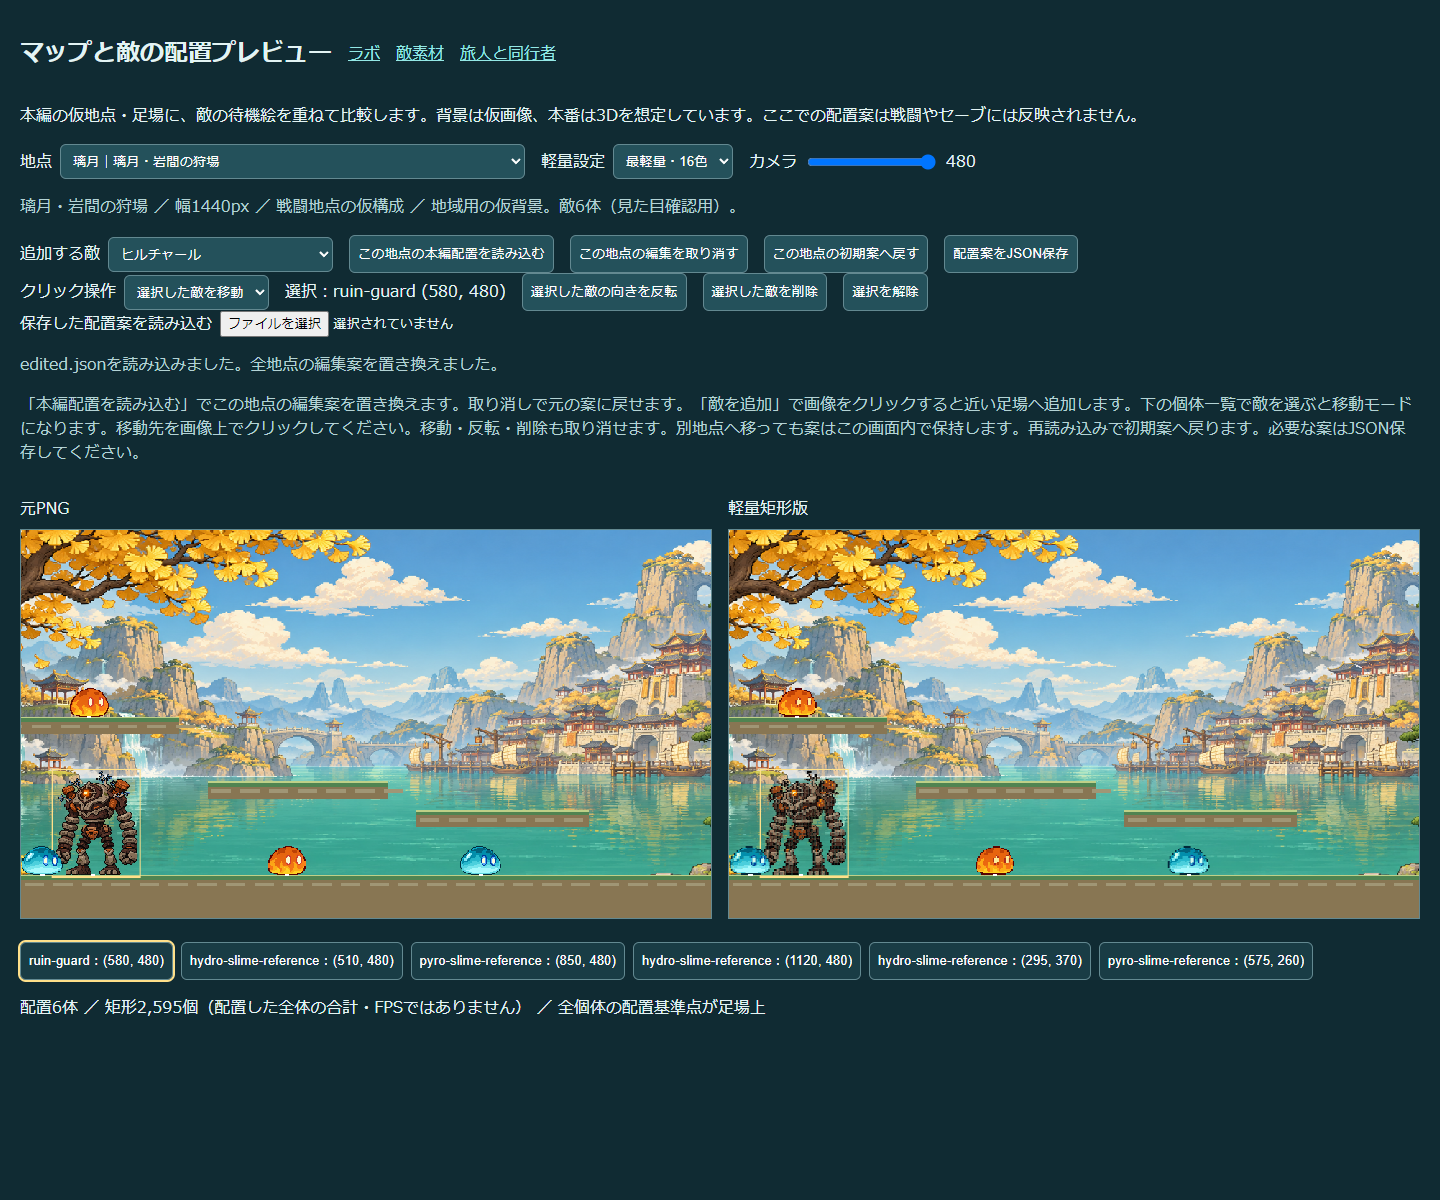
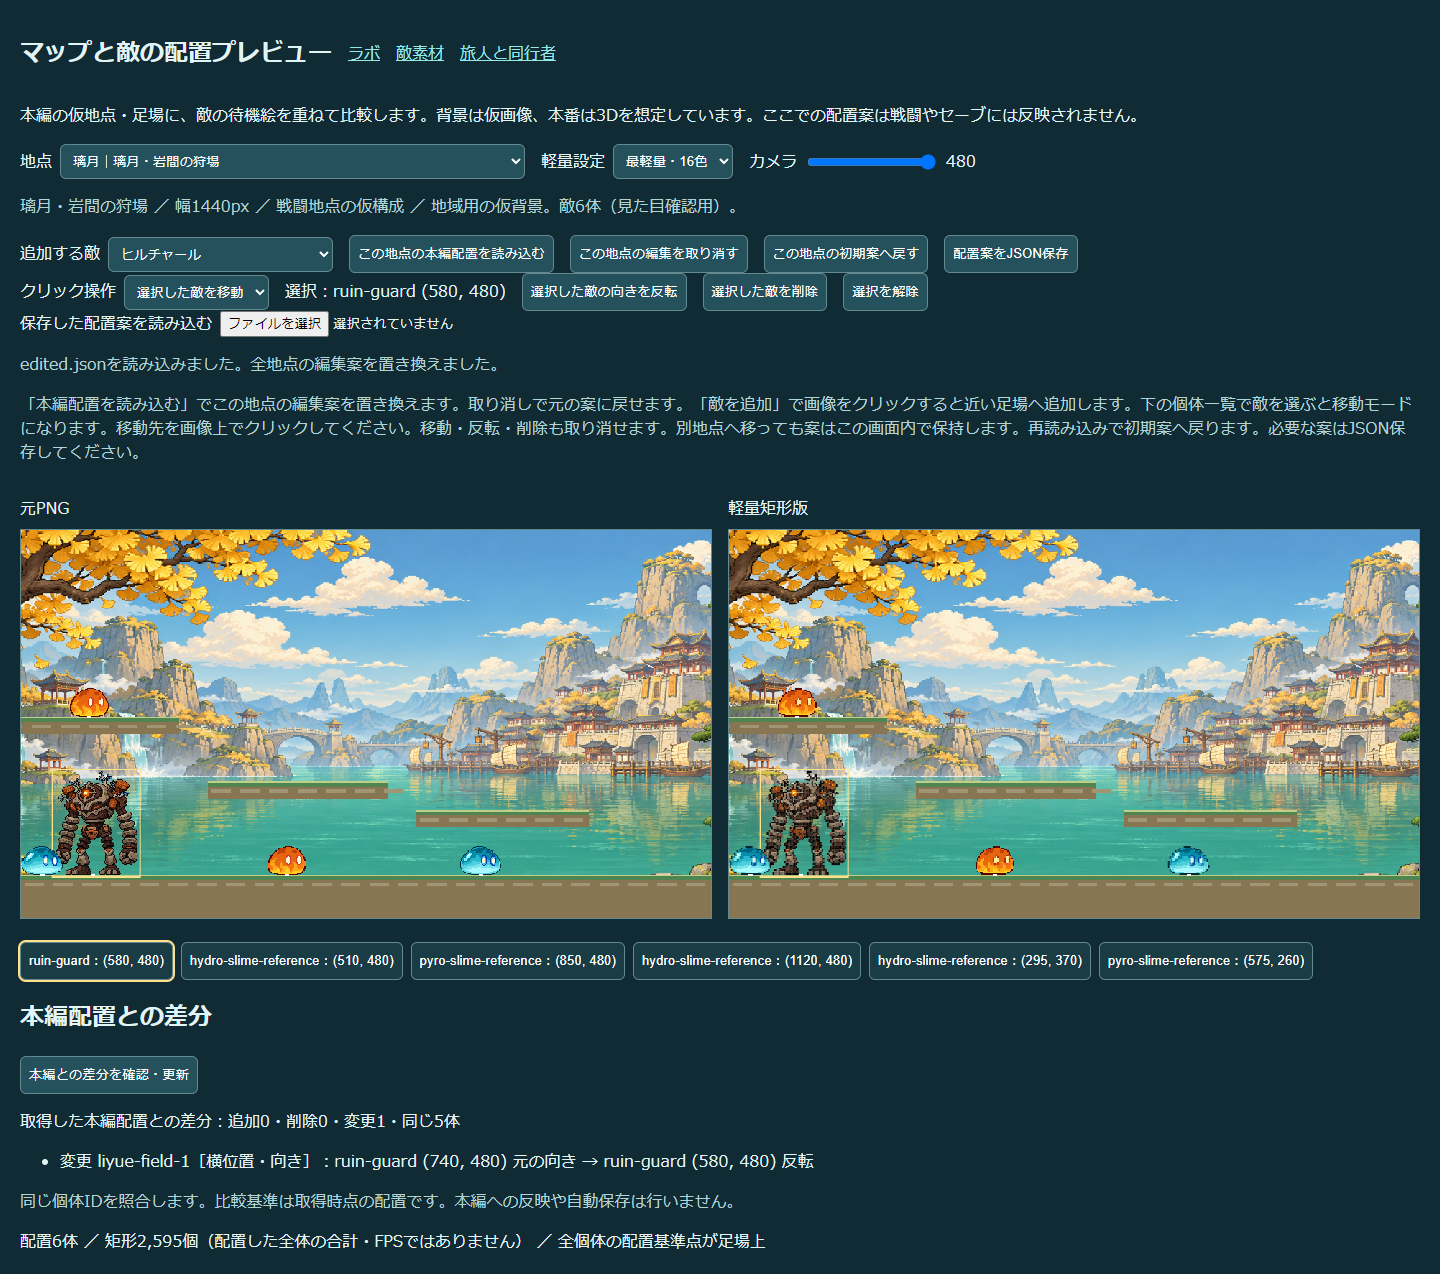
Show draft placement changes against live spawn baseline

diff --git a/map-art.js b/map-art.js
@@ -1,6 +1,6 @@
 import {scenery,sceneryKey,sceneryDefinitions,sceneryStatus,backgroundReady} from './scenery.js';
-import {liveNodeDraft,validatePlacementDraft,MAX_DRAFT_BYTES,MAX_NODE_PLACEMENTS,MAX_TOTAL_PLACEMENTS} from './placement-drafts.js';
-const $=id=>document.getElementById(id),assets={},histories={};
+import {comparePlacements,liveNodeDraft,validatePlacementDraft,MAX_DRAFT_BYTES,MAX_NODE_PLACEMENTS,MAX_TOTAL_PLACEMENTS} from './placement-drafts.js';
+const $=id=>document.getElementById(id),assets={},histories={},baselines={};
 async function json(path){const r=await fetch(path);if(!r.ok)throw Error(path);return r.json()}
 try{
  const [graph,initial,variants]=await Promise.all([json('content/story-graph.json'),json('content/enemy-placement-drafts.json'),json('assets/variants.json'),backgroundReady]);
@@ -35,7 +35,13 @@ try{
   $('placements').replaceChildren();for(const e of items){const label=document.createElement('button');label.type='button';label.dataset.id=e.id;label.setAttribute('aria-pressed',String(e.id===selected));label.onclick=()=>{selected=e.id;$('editMode').value='move';render()};label.textContent=`${e.species}：(${e.x}, ${e.y})${assets[e.species].hover?` ／ 浮き ${assets[e.species].hover}px`:``}`;$('placements').append(label)}
   const chosen=items.find(e=>e.id===selected);$('selectionStatus').textContent=chosen?`選択：${chosen.species} (${chosen.x}, ${chosen.y})`:'選択なし';for(const id of ['flipSelected','deleteSelected','clearSelection'])$(id).disabled=!chosen;
   const runs=items.reduce((sum,e)=>sum+assets[e.species].profiles[profile].runs.length,0);$('status').textContent=`配置${items.length}体 ／ 矩形${runs.toLocaleString()}個（配置した全体の合計・FPSではありません） ／ ${valid?'全個体の配置基準点が足場上':'足場外の配置あり'}`;$('undo').disabled=!(histories[n.id]?.length);
-  window.mapArt={ready:true,node:n.id,nodeCount:nodes.size,camera,profile,count:items.length,selected,editMode:$('editMode').value,placements:structuredClone(items),visuals:items.map(e=>({id:e.id,y:e.y-assets[e.species].hover,hover:assets[e.species].hover,height:assets[e.species].h})),grounded:valid,background:sceneryKey(frame),backgroundFallback:!mapped,backgroundState:background.state,backgroundFile:background.file};
+  const diff=baselines[n.id]?comparePlacements(baselines[n.id],items):null;
+  $('diffSummary').textContent=diff?`取得した本編配置との差分：追加${diff.added.length}・削除${diff.removed.length}・変更${diff.changed.length}・同じ${diff.unchanged}体`:'この地点の本編配置は未取得です。比較しても編集案は変わりません。';
+  $('diffDetails').replaceChildren();
+  const describe=e=>`${e.species} (${e.x}, ${e.y}) ${e.flip?'反転':'元の向き'}`;
+  const line=text=>{const li=document.createElement('li');li.textContent=text;$('diffDetails').append(li)};
+  if(diff){for(const e of diff.added)line(`追加 ${e.id}：${describe(e)}`);for(const e of diff.removed)line(`削除 ${e.id}：${describe(e)}`);for(const e of diff.changed){const names={species:'敵種',x:'横位置',y:'足場の高さ',flip:'向き'};line(`変更 ${e.id}［${e.fields.map(k=>names[k]).join('・')}］：${describe(e.before)} → ${describe(e.after)}`)}}
+  window.mapArt={diff,ready:true,node:n.id,nodeCount:nodes.size,camera,profile,count:items.length,selected,editMode:$('editMode').value,placements:structuredClone(items),visuals:items.map(e=>({id:e.id,y:e.y-assets[e.species].hover,hover:assets[e.species].hover,height:assets[e.species].h})),grounded:valid,background:sceneryKey(frame),backgroundFallback:!mapped,backgroundState:background.state,backgroundFile:background.file};
  }
  function remember(id){const history=histories[id]??=[];history.push(structuredClone(drafts.nodes[id]??[]));if(history.length>100)history.shift()}
  function select(){selected=null;const n=node();$('camera').max=Math.max(0,n.width-960);$('camera').value=0;render()}
@@ -50,7 +56,8 @@ for(const id of ['camera','profile'])$(id).oninput=render;
   let id;do{id=`added-${++serial}`}while(placements().some(e=>e.id===id));const item={id,species:$('species').value,x,y:supports[0].y,flip:false};remember(n.id);placements().push(item);render()};
  $('undo').onclick=()=>{const previous=histories[node().id]?.pop();if(previous)drafts.nodes[node().id]=previous;render()};
  $('reset').onclick=()=>{remember(node().id);drafts.nodes[node().id]=structuredClone(initial.nodes[node().id]||[]);render()};
- $('loadLive').onclick=async()=>{const id=node().id;$('loadLive').disabled=true;try{const source=await json('content/enemy-spawns.json');if(node().id!==id)throw Error('地点が切り替わったため読み込みを中止しました。');const items=liveNodeDraft(source,graph,id,Object.keys(assets));if(Object.entries(drafts.nodes).reduce((sum,[key,list])=>sum+(key===id?0:list.length),items.length)>MAX_TOTAL_PLACEMENTS)throw Error('全地点の配置数の上限を超えます。');remember(id);drafts.nodes[id]=items;render();$('fileStatus').textContent='この地点の本編配置を編集案にコピーしました。取り消すと直前の案に戻ります。';}catch(e){$('fileStatus').textContent='読み込み中止：'+e.message+' 編集中の案は保持しています。';}finally{$('loadLive').disabled=false}};
+ $('loadLive').onclick=async()=>{const id=node().id;$('loadLive').disabled=true;try{const source=await json('content/enemy-spawns.json');if(node().id!==id)throw Error('地点が切り替わったため読み込みを中止しました。');const items=liveNodeDraft(source,graph,id,Object.keys(assets));if(Object.entries(drafts.nodes).reduce((sum,[key,list])=>sum+(key===id?0:list.length),items.length)>MAX_TOTAL_PLACEMENTS)throw Error('全地点の配置数の上限を超えます。');baselines[id]=structuredClone(items);remember(id);drafts.nodes[id]=items;render();$('fileStatus').textContent='この地点の本編配置を編集案にコピーしました。取り消すと直前の案に戻ります。';}catch(e){$('fileStatus').textContent='読み込み中止：'+e.message+' 編集中の案は保持しています。';}finally{$('loadLive').disabled=false}};
+ $('compareLive').onclick=async()=>{const id=node().id;$('compareLive').disabled=true;try{const source=await json('content/enemy-spawns.json');const baseline=liveNodeDraft(source,graph,id,Object.keys(assets));baselines[id]=baseline;render();$('fileStatus').textContent='本編配置を取得しました。同じ個体IDで比較しています。編集案は変更していません。';}catch(e){$('fileStatus').textContent='比較の取得失敗：'+e.message+' 編集案と前回の比較基準を保持しています。';}finally{$('compareLive').disabled=false}};
  $('export').onclick=()=>{const blob=new Blob([JSON.stringify(drafts,null,2)+'\n'],{type:'application/json'}),url=URL.createObjectURL(blob),a=document.createElement('a');a.href=url;a.download='enemy-placement-drafts.json';a.click();setTimeout(()=>URL.revokeObjectURL(url),1000)};
  $('import').onchange=async()=>{
   const file=$('import').files[0],ticket=++importTicket;if(!file)return;

diff --git a/map-art.html b/map-art.html
@@ -8,4 +8,4 @@
 <label>保存した配置案を読み込む <input id="import" type="file" accept=".json,application/json"></label><p id="fileStatus" role="status" class="note">読み込むと全地点の編集案を置き換えます。必要な案は先にJSON保存してください。</p>
 <p class="note">「本編配置を読み込む」でこの地点の編集案を置き換えます。取り消しで元の案に戻せます。「敵を追加」で画像をクリックすると近い足場へ追加します。下の個体一覧で敵を選ぶと移動モードになります。移動先を画像上でクリックしてください。移動・反転・削除も取り消せます。別地点へ移っても案はこの画面内で保持します。再読み込みで初期案へ戻ります。必要な案はJSON保存してください。</p>
 <main><figure><figcaption>元PNG</figcaption><canvas id="png" width="960" height="540"></canvas></figure><figure><figcaption>軽量矩形版</figcaption><canvas id="rect" width="960" height="540"></canvas></figure></main>
-<div id="placements"></div><p id="status" role="status">読み込み中</p><script type="module" src="map-art.js"></script></html>
+<div id="placements"></div><section aria-label="本編配置との差分"><h2>本編配置との差分</h2><button id="compareLive">本編との差分を確認・更新</button><p id="diffSummary" role="status"></p><ul id="diffDetails"></ul><p class="note">同じ個体IDを照合します。比較基準は取得時点の配置です。本編への反映や自動保存は行いません。</p></section><p id="status" role="status">読み込み中</p><script type="module" src="map-art.js"></script></html>

diff --git a/placement-drafts.js b/placement-drafts.js
@@ -35,3 +35,11 @@ export function validatePlacementDraft(input,graph,species){
  }
  return {version:1,status:'visual-only draft; not canonical spawn geography or live combat placement',nodes};
 }
+
+// Inputs have already passed draft validation; identity is the stable spawn ID.
+export function comparePlacements(baseline,draft){
+ const before=new Map(baseline.map(e=>[e.id,e])),after=new Map(draft.map(e=>[e.id,e]));
+ const added=draft.filter(e=>!before.has(e.id)),removed=baseline.filter(e=>!after.has(e.id)),changed=[];
+ for(const e of draft){const old=before.get(e.id);if(!old)continue;const fields=['species','x','y','flip'].filter(k=>old[k]!==e[k]);if(fields.length)changed.push({id:e.id,before:old,after:e,fields})}
+ return {added,removed,changed,unchanged:draft.length-added.length-changed.length};
+}

diff --git a/CHAT_HANDOFF.md b/CHAT_HANDOFF.md
@@ -222,3 +222,6 @@ map-art.html追加: 本編61仮地点の足場/背景を選択し、元PNGと軽
 2026-11-17: テペトル竜の参照を収集。HoYoWiki6578の成体全身画像と公式紹介GIF125346のframe0/62を直接確認（全124フレームの全編視聴ではない）。額の黄色結晶/紫褐色の岩状鱗/腹板/短腕/太脚/黄色の足と黒爪を照合。GIFの小さい背面は細部3D検査と区別。RPGSite画像403、MMDモデルAPI404。画像生成はHTTP400 moderation_blocked（出力段階other）で失敗し画像未作成。参照監査と素材一覧へ未生成状態を保存し、完成素材・本編配置として扱わない。既存コード/技/配置は変更なし。 根拠 evidence/tepetlisaurus-reference-audit.json。
 
 2026-11-17: 配置プレビューに個体選択・移動・左右反転・削除を追加。個体一覧をボタンにして選択し、PNG/矩形の両方で枠表示。移動先クリックで近い足場へ吸着しIDと体数を保持。全操作は既存の地点別履歴で取り消し可能。JSON書出/読戻は移動座標と向きを保持、地点変更/読込後は選択を解除。ブラウザで上段へ移動・反転・削除・3段階取り消し・保存復元・カメラ480で座標変換・未選択の移動が追加しないこと・390pxを検証し通過（クリック丸め±1pxを許容）。既存61地点編集と本編配置読込検査も通過。画面を目視。本編配置ファイル/戦闘/技は変更なし、編集案はJSONで持ち出す。 根拠 evidence/placement-editing.json。
+
+
+2026-11-17: 配置プレビューに本編との差分確認を追加。同じ個体IDで追加/削除/敵種/横位置/足場高さ/向きを照合し、取得時点の本編配置を基準として表示。比較だけでは編集案を変更せず、本編配置のコピーでも基準を保持。取得失敗時は案と前回基準を保持。単体・ブラウザで差分分類/反転/削除/取り消し/追加/地点分離/失敗保持/390pxを確認し、既存編集検査も通過。画面を目視。本編への書戻しや自動保存なし、技変更なし。根拠 evidence/placement-diff.json と evidence/placement-diff.png。
